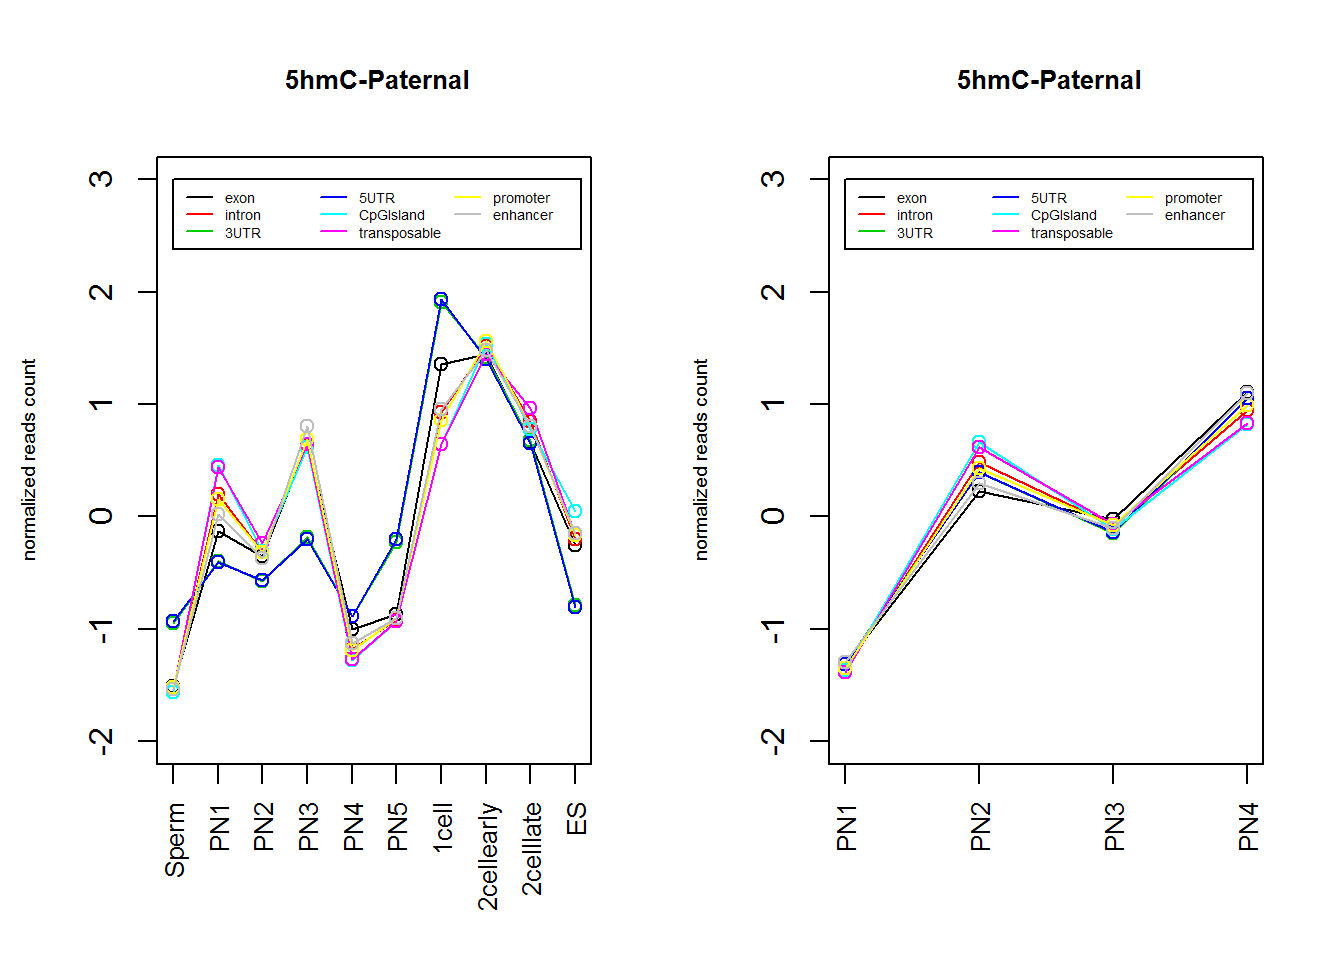
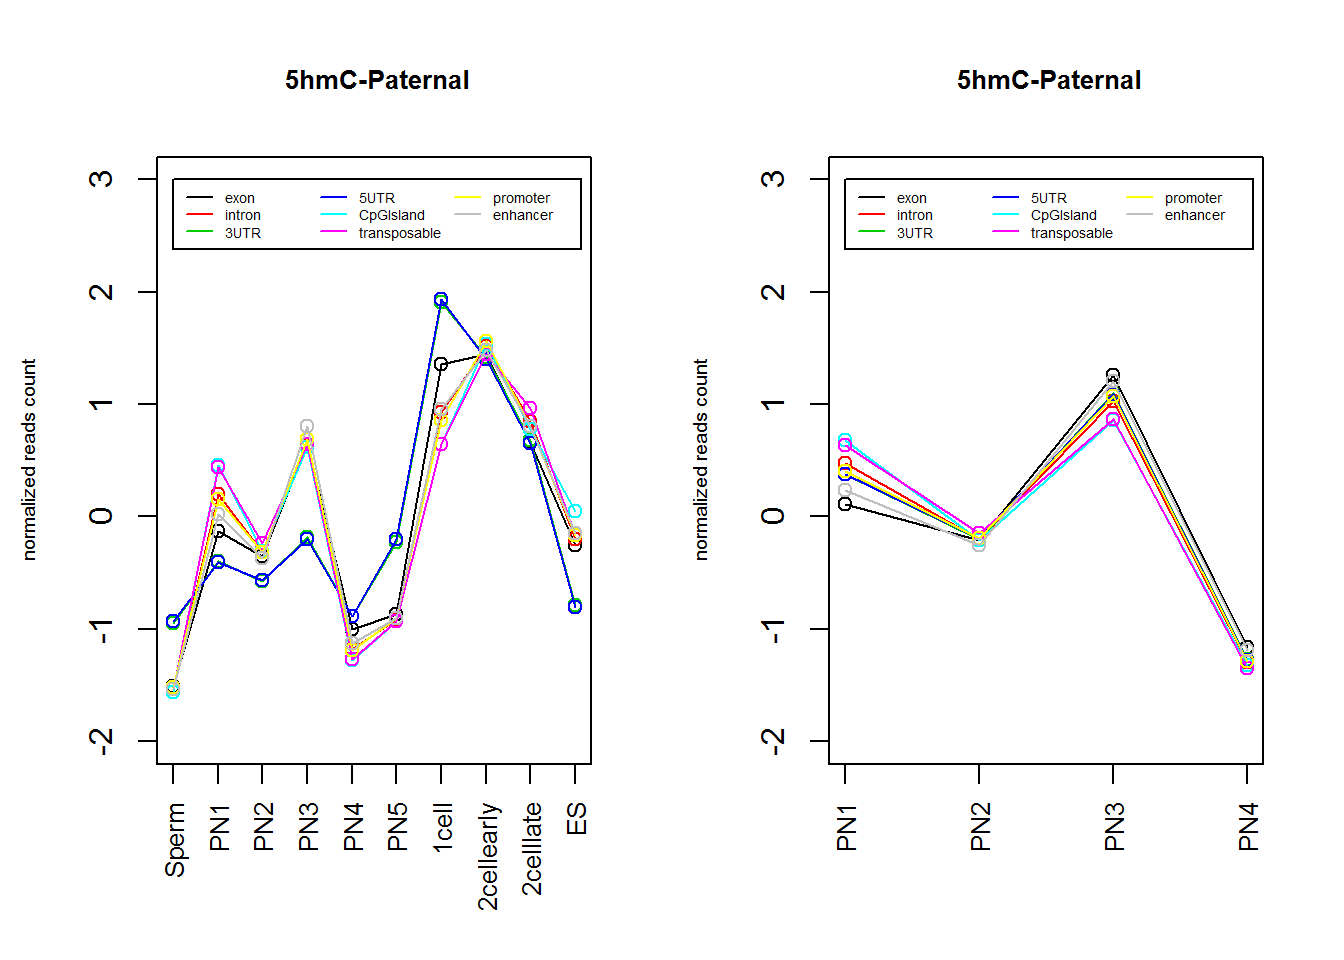
May22018

diff --git a/docs/Sample-with-spikein.html b/docs/Sample-with-spikein.html
@@ -317,7 +317,7 @@ shared across the workflowr files. -->
 <p><strong>Last updated:</strong> 2018-05-02</p>
 <!-- Insert the code version (Git commit SHA1) if Git repository exists and R
  package git2r is installed -->
-<p><strong>Code version:</strong> ec4b677</p>
+<p><strong>Code version:</strong> ade7bcc</p>
 <!-- Add your analysis here -->
 <p>All analysiz have been adjusted with spike in sample.</p>
 <div id="rep1-20180113" class="section level2">
